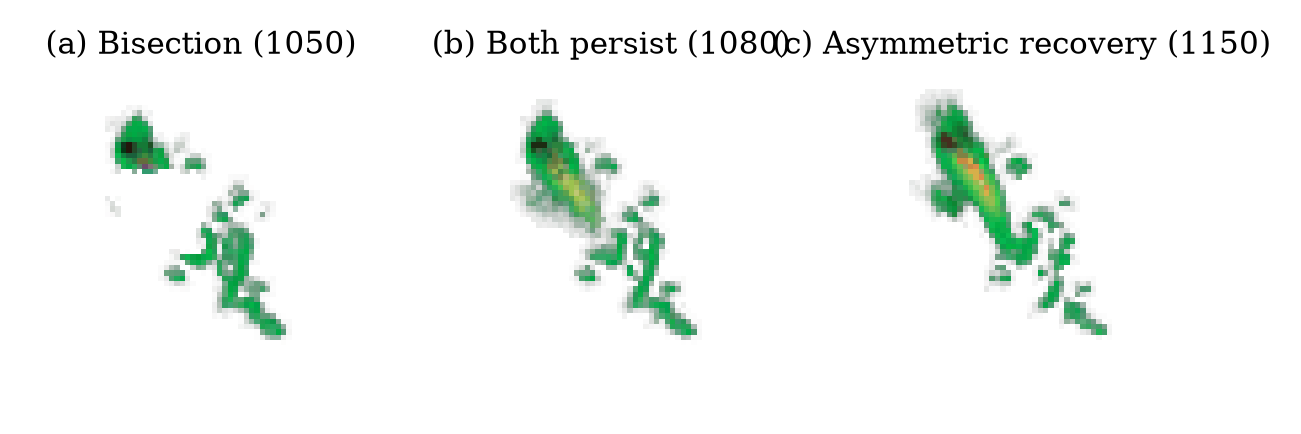
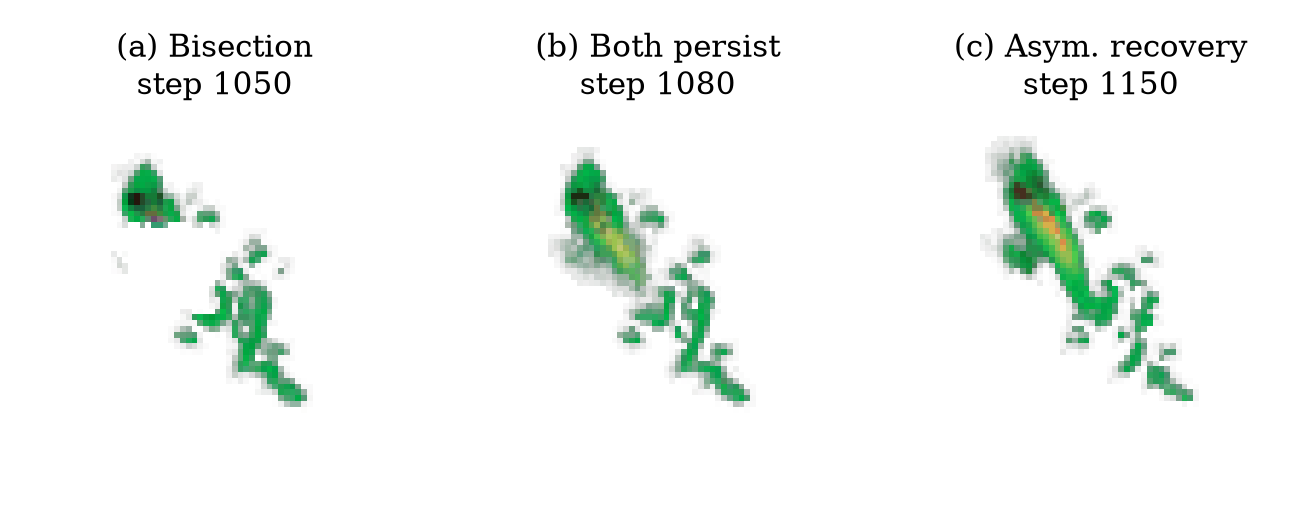
fix(paper): fig3 panel-title collision — two-line titles
Panel (b)'s '(1080)' ran into panel (c)'s '(c)' label in the serif font,
reading as '108O0c'. Titles now two-line (name / step N), figure slightly
wider+taller, 'Asymmetric' shortened to 'Asym.'

diff --git a/paper_drafts/make_figures.py b/paper_drafts/make_figures.py
@@ -146,14 +146,15 @@ print("fig2 done")
 # They survive ~60 steps, then the larger monopolizes regrowth and the smaller is
 # absorbed (they do NOT re-merge — verified by connected-component tracking).
 frames = imageio.mimread("results_local/e2_hard_20260730/rollout_closed_loop.gif")
-panels = [(105, "a", "Bisection (1050)"),       # lesion frame: two fragments first appear
-          (108, "b", "Both persist (1080)"),     # 30 steps later: both still substantial
-          (115, "c", "Asymmetric recovery (1150)")]  # 100 steps later: larger dominates, smaller absorbed
-fig, axes = plt.subplots(1, 3, figsize=(5.0, 1.9))
-for ax, (fi, lab, title) in zip(axes, panels):
+panels = [(105, "a", "Bisection", 1050),        # lesion frame: two fragments first appear
+          (108, "b", "Both persist", 1080),      # 30 steps later: both still substantial
+          (115, "c", "Asym. recovery", 1150)]    # 100 steps later: larger dominates, smaller absorbed
+fig, axes = plt.subplots(1, 3, figsize=(5.4, 2.0))
+for ax, (fi, lab, title, step) in zip(axes, panels):
     ax.imshow(frames[fi][16:80, 16:80], interpolation="nearest")
     ax.axis("off")
-    ax.set_title(f"({lab}) {title}", fontsize=7.5, pad=2)
+    # Two-line title: label+name on line 1, step on line 2 — prevents horizontal overflow/collision.
+    ax.set_title(f"({lab}) {title}\nstep {step}", fontsize=7.5, pad=3)
 fig.savefig(OUT / "fig3_fission_sequence.png")
 plt.close(fig)
 print("fig3 done")
